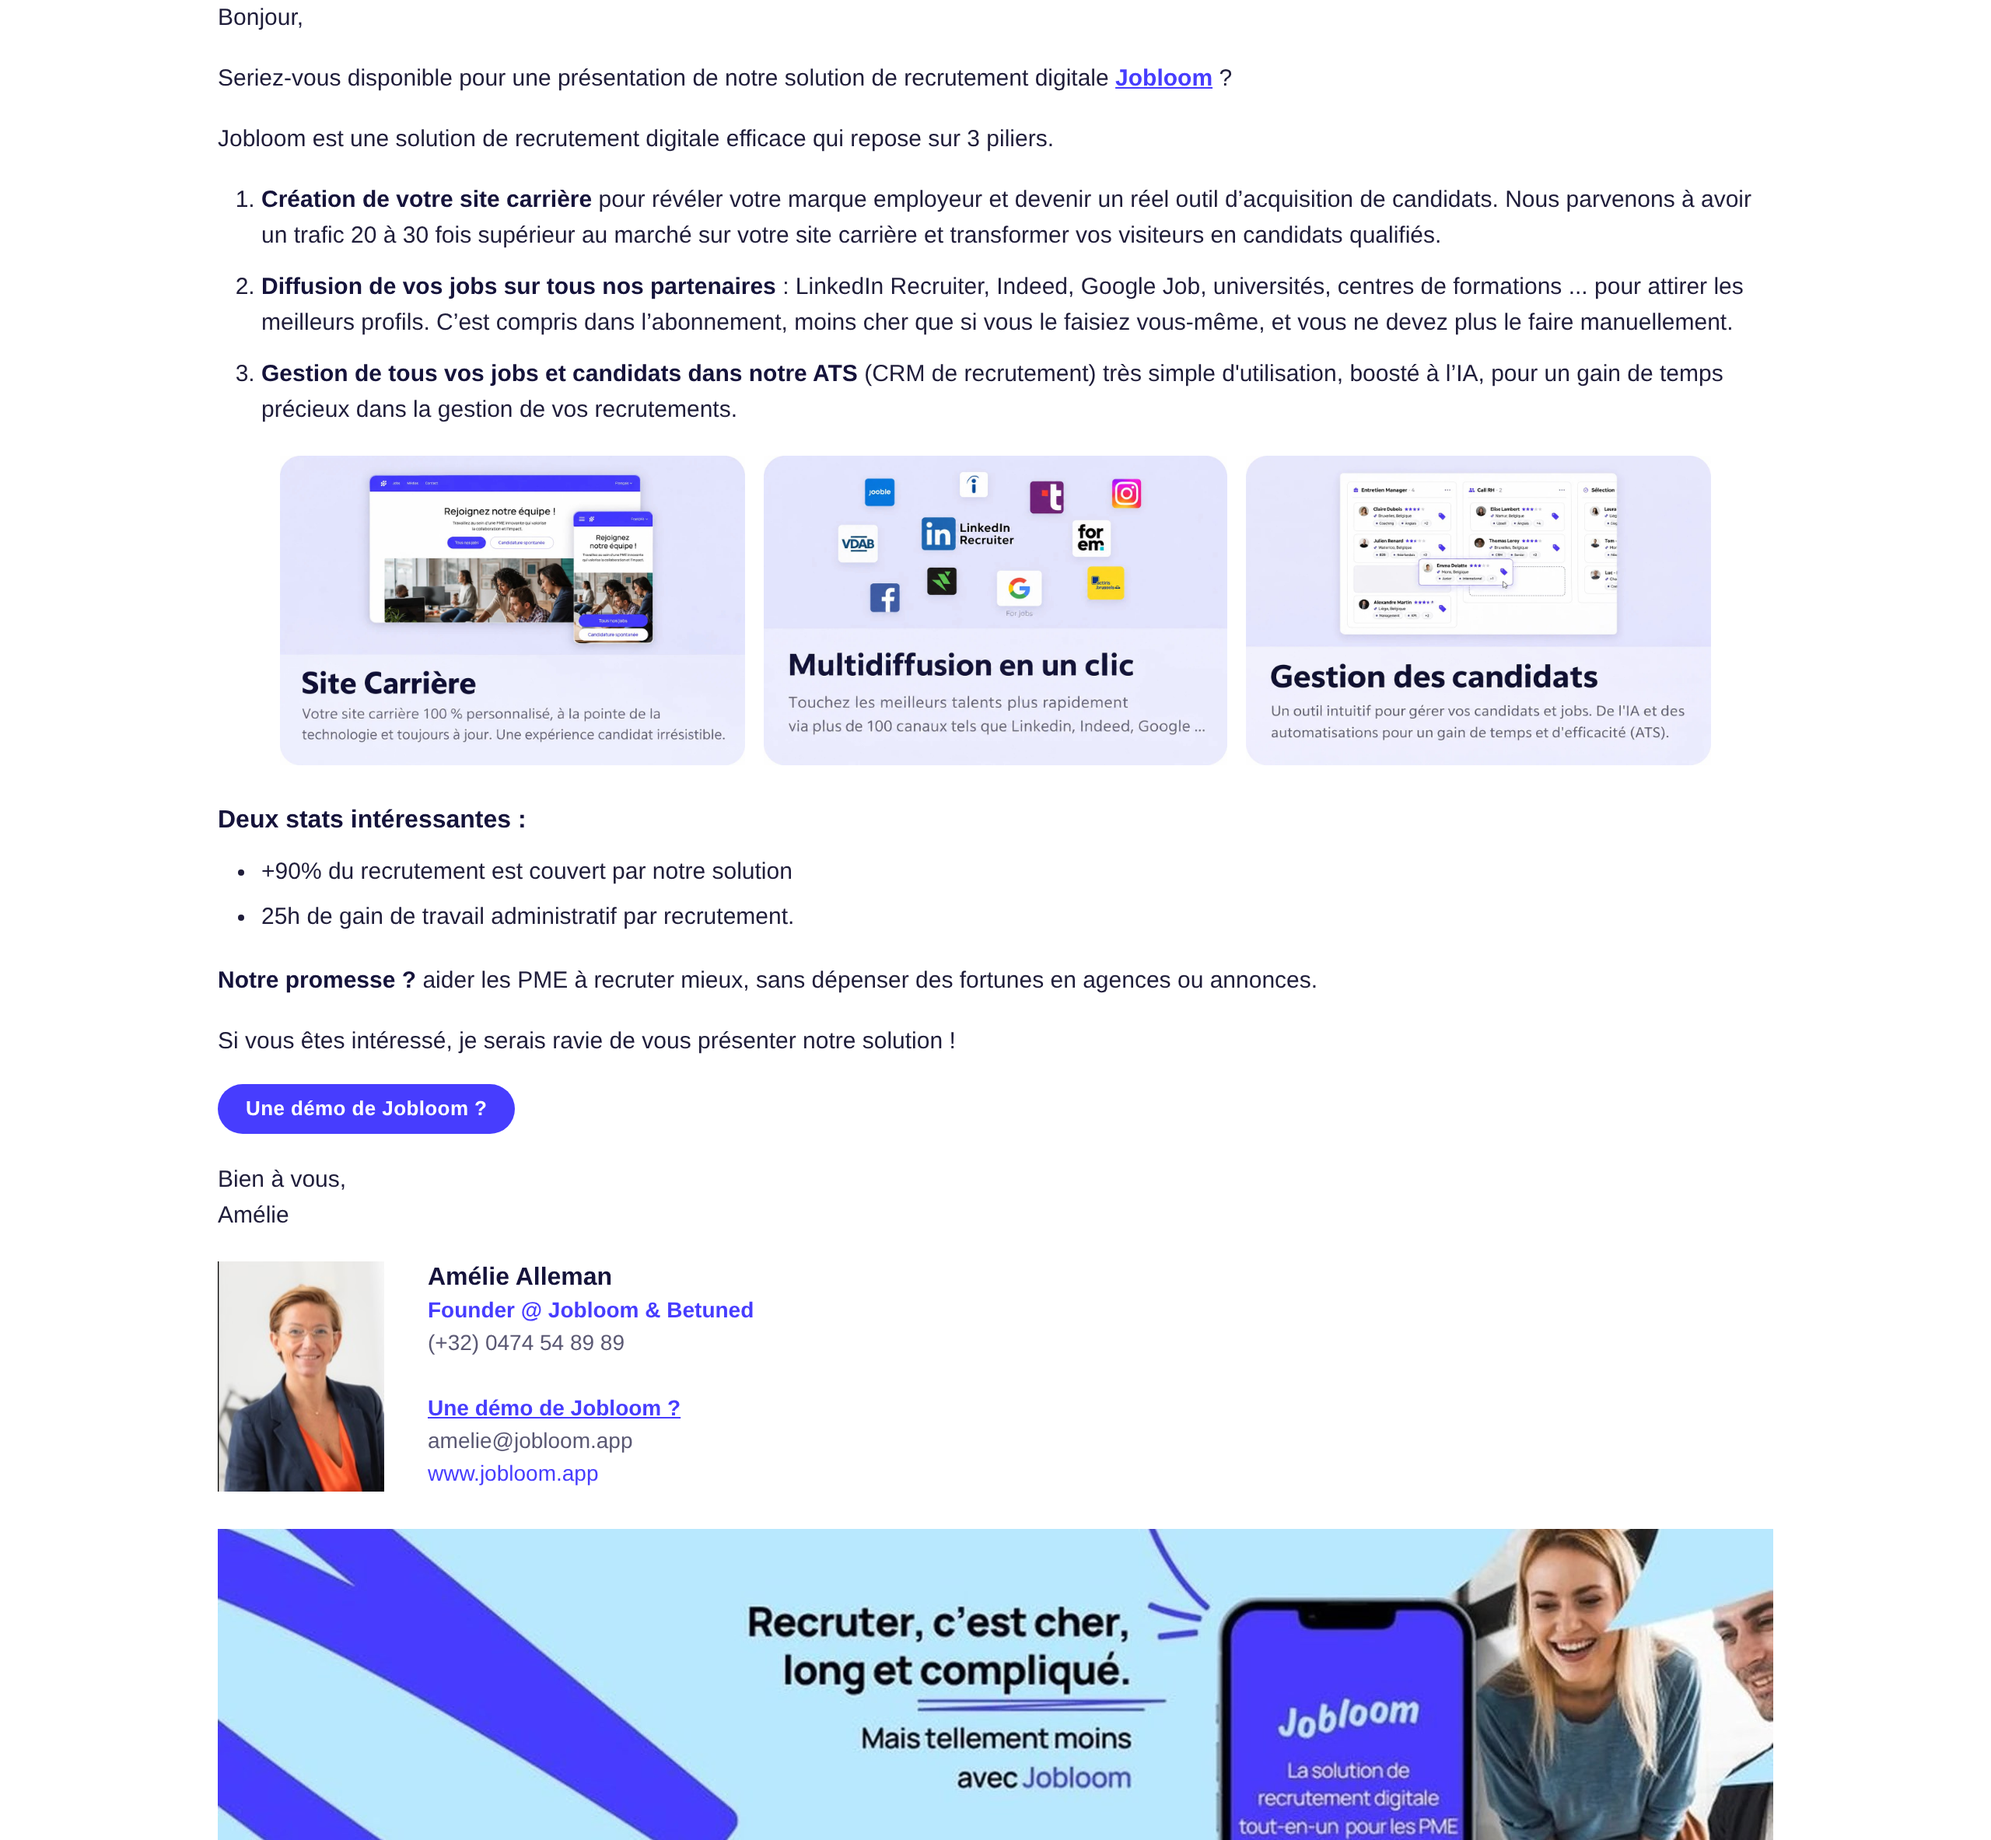
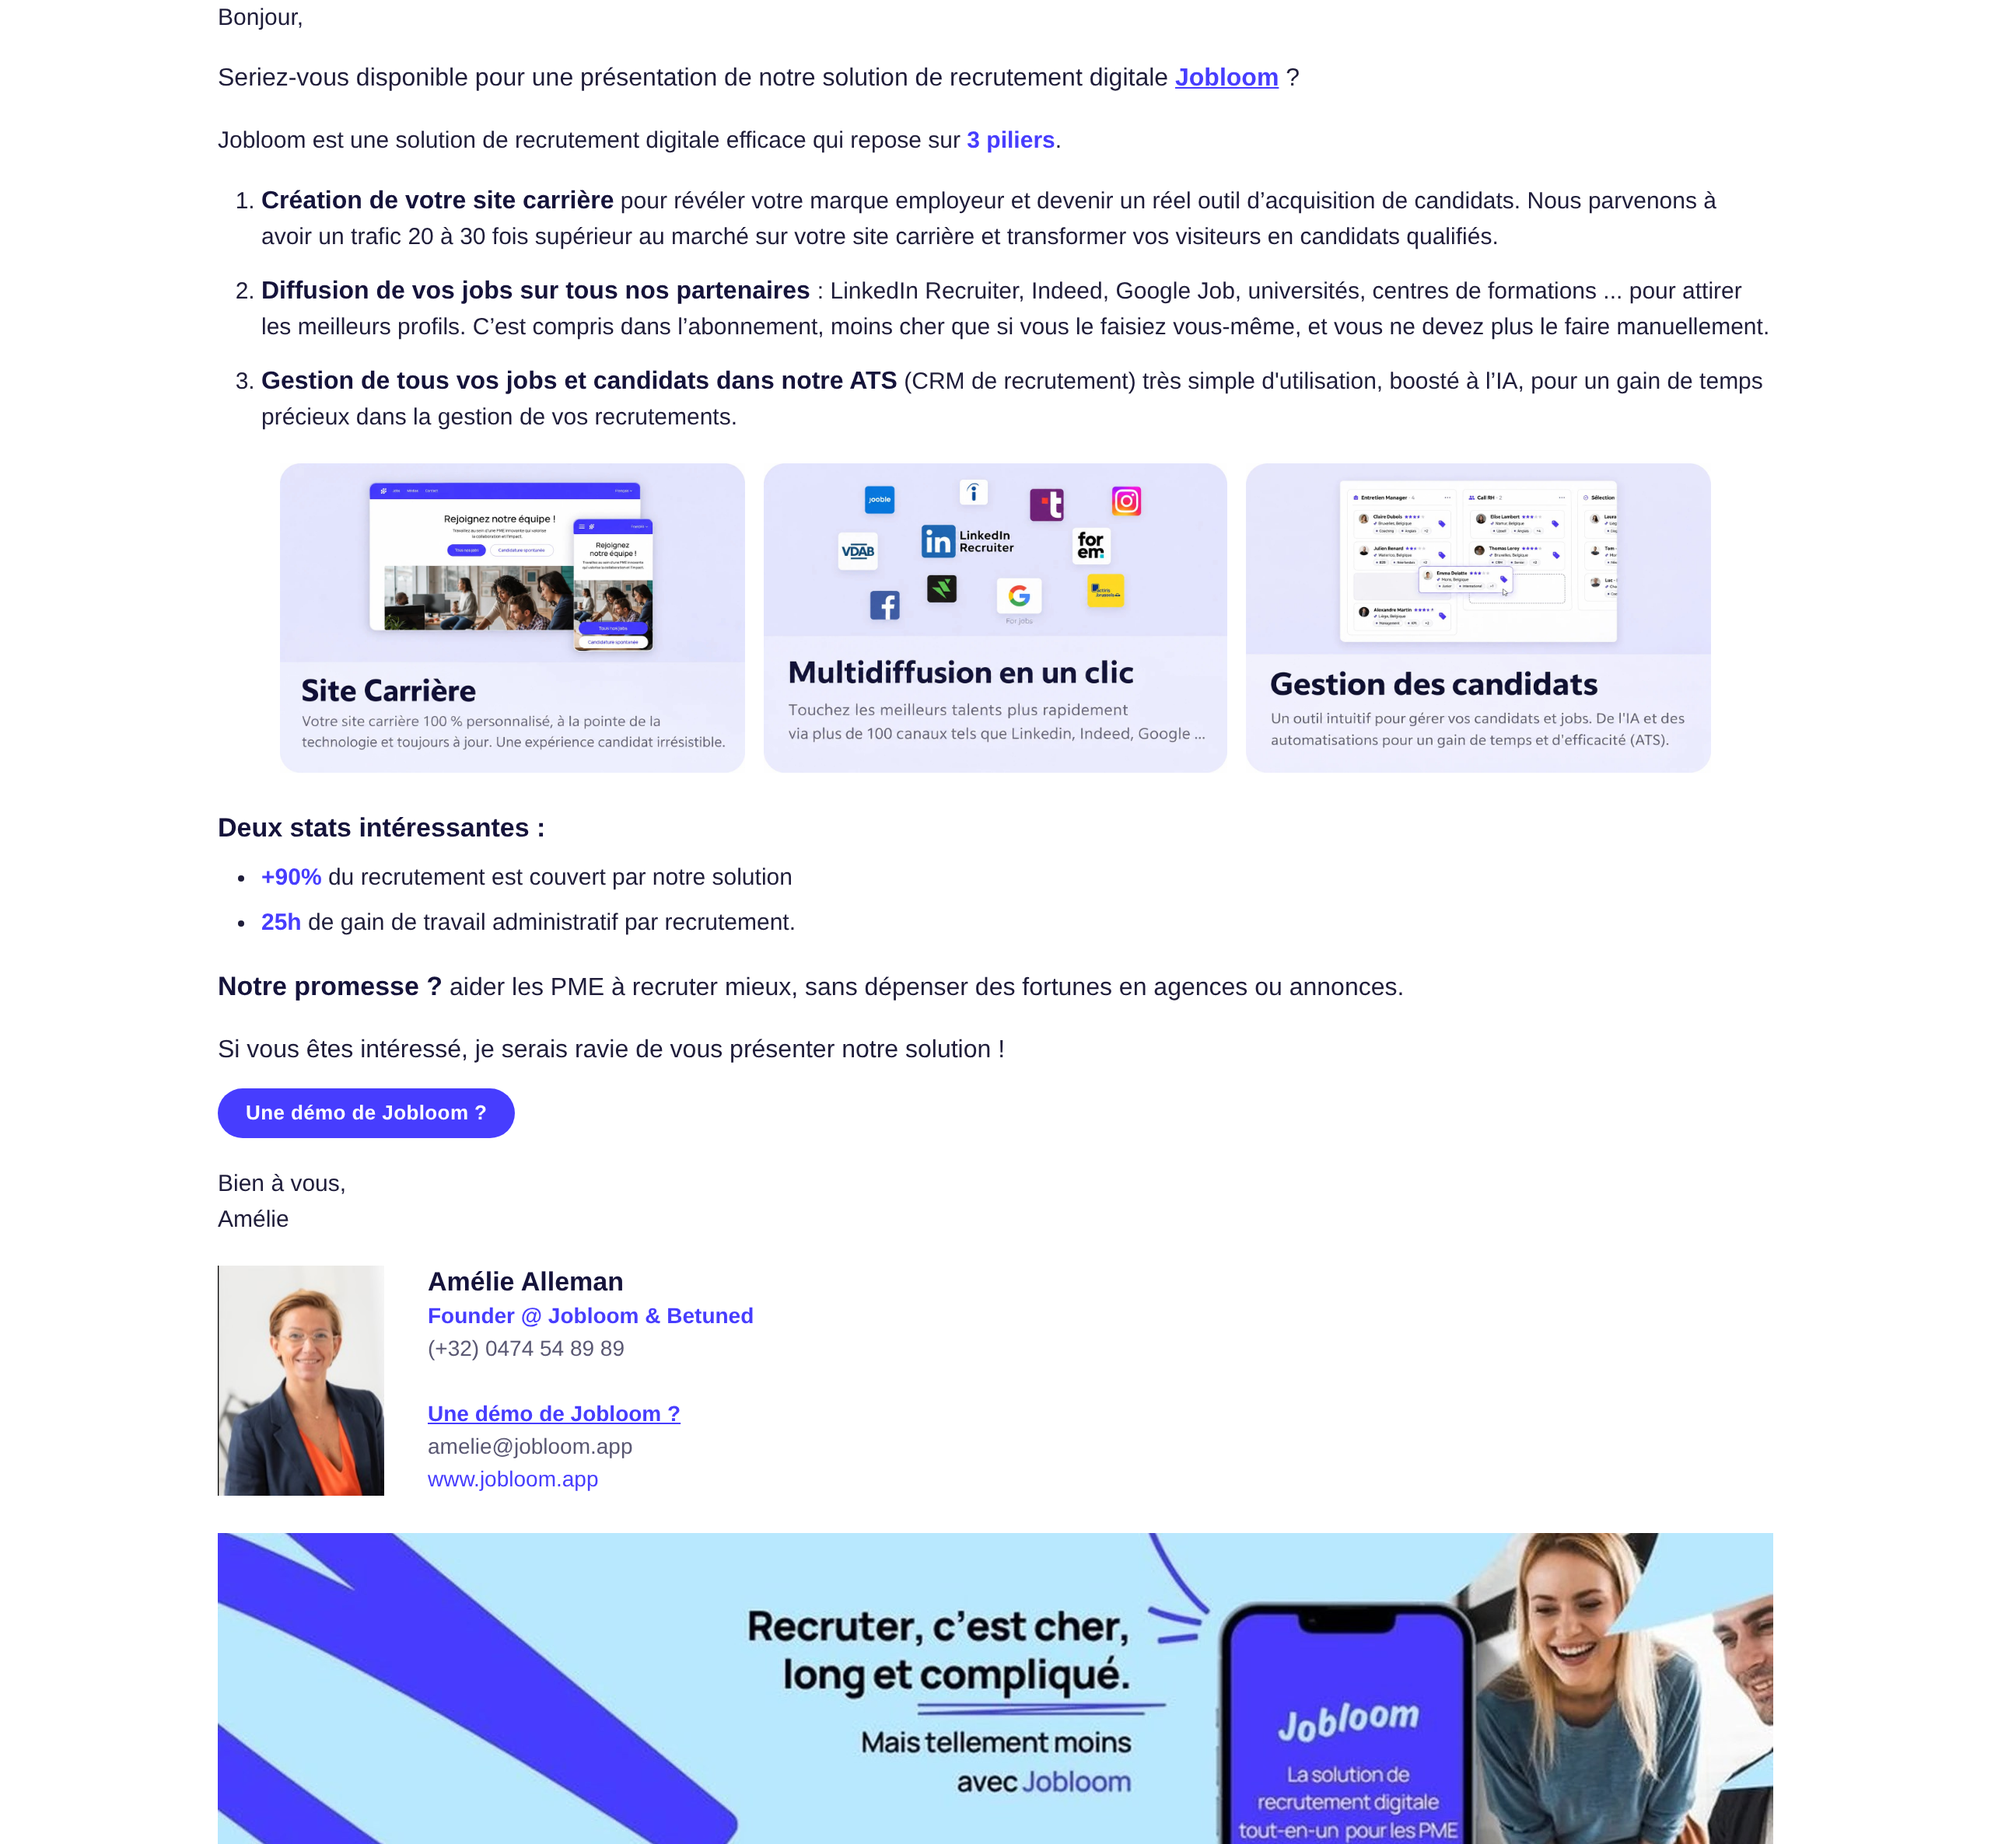
Email Amélie : hiérarchie des titres renforcée
Claude-Session: https://claude.ai/code/session_01XTeiUwKp5X2MxE8FSKHjU9

diff --git a/email-livrable/email_1st_Amelie_final.html b/email-livrable/email_1st_Amelie_final.html
@@ -34,21 +34,21 @@ li{margin-left:0 !important;}</style>
 <div class="txt" style="width:100%;max-width:1000px;margin:0 auto;text-align:left;font-family:Arial,Helvetica,sans-serif;font-size:15px;line-height:23px;mso-line-height-rule:exactly;color:#1F1D3A">
 
 <p style="margin:0 0 16px 0">Bonjour,</p>
-<p style="margin:0 0 16px 0">Seriez-vous disponible pour une présentation de notre solution de recrutement digitale <a href="https://www.jobloom.be/" style="color:#473DFE;font-weight:bold;text-decoration:underline">Jobloom</a>&nbsp;?</p>
-<p style="margin:0 0 16px 0">Jobloom est une solution de recrutement digitale efficace qui repose sur 3 piliers.</p>
+<p style="margin:0 0 16px 0;font-size:16px;line-height:24px">Seriez-vous disponible pour une présentation de notre solution de recrutement digitale <a href="https://www.jobloom.be/" style="color:#473DFE;font-weight:bold;text-decoration:underline">Jobloom</a>&nbsp;?</p>
+<p style="margin:0 0 16px 0">Jobloom est une solution de recrutement digitale efficace qui repose sur <b style="color:#473DFE">3 piliers</b>.</p>
 <ol class="list" style="margin:0 0 18px 0;padding-left:28px">
-<li style="margin:0 0 10px 0"><b style="color:#15133B">Création de votre site carrière</b> pour révéler votre marque employeur et devenir un réel outil d’acquisition de candidats. Nous parvenons à avoir un trafic 20 à 30 fois supérieur au marché sur votre site carrière et transformer vos visiteurs en candidats qualifiés.</li>
-<li style="margin:0 0 10px 0"><b style="color:#15133B">Diffusion de vos jobs sur tous nos partenaires&nbsp;</b>: LinkedIn Recruiter, Indeed, Google Job, universités, centres de formations ... pour attirer les meilleurs profils. C’est compris dans l’abonnement, moins cher que si vous le faisiez vous-même, et vous ne devez plus le faire manuellement.</li>
-<li style="margin:0"><b style="color:#15133B">Gestion de tous vos jobs et candidats dans notre ATS</b> (CRM de recrutement) très simple d'utilisation, boosté à l’IA, pour un gain de temps précieux dans la gestion de vos recrutements.</li>
+<li style="margin:0 0 12px 0"><b style="color:#15133B;font-size:16px">Création de votre site carrière</b> pour révéler votre marque employeur et devenir un réel outil d’acquisition de candidats. Nous parvenons à avoir un trafic 20 à 30 fois supérieur au marché sur votre site carrière et transformer vos visiteurs en candidats qualifiés.</li>
+<li style="margin:0 0 12px 0"><b style="color:#15133B;font-size:16px">Diffusion de vos jobs sur tous nos partenaires&nbsp;</b>: LinkedIn Recruiter, Indeed, Google Job, universités, centres de formations ... pour attirer les meilleurs profils. C’est compris dans l’abonnement, moins cher que si vous le faisiez vous-même, et vous ne devez plus le faire manuellement.</li>
+<li style="margin:0"><b style="color:#15133B;font-size:16px">Gestion de tous vos jobs et candidats dans notre ATS</b> (CRM de recrutement) très simple d'utilisation, boosté à l’IA, pour un gain de temps précieux dans la gestion de vos recrutements.</li>
 </ol>
 <table role="presentation" class="cards" cellpadding="0" cellspacing="0" border="0" width="92%" align="center" style="border-collapse:collapse;width:92%;margin:8px auto 24px auto"><tr><td class="cardtd" width="33%" valign="top" style="width:33.33%;padding:0 8px 0 0"><a href="https://www.jobloom.app/" style="text-decoration:none"><!--[if mso]><img src="https://jobloom-landing-pages-massimoharnisfeger-hues-projects.vercel.app/signature/pilier-1.jpg" width="258" height="172" alt="Site Carrière" style="display:block;width:258px;height:172px;border:0"><![endif]--><!--[if !mso]><!--><img src="https://jobloom-landing-pages-massimoharnisfeger-hues-projects.vercel.app/signature/pilier-1.jpg" width="1536" height="1024" alt="Site Carrière" style="display:block;width:100%;max-width:512px;height:auto;border:0"><!--<![endif]--></a></td><td class="cardtd" width="33%" valign="top" style="width:33.33%;padding:0 4px"><a href="https://www.jobloom.app/" style="text-decoration:none"><!--[if mso]><img src="https://jobloom-landing-pages-massimoharnisfeger-hues-projects.vercel.app/signature/pilier-2.jpg" width="258" height="172" alt="Multidiffusion en un clic" style="display:block;width:258px;height:172px;border:0"><![endif]--><!--[if !mso]><!--><img src="https://jobloom-landing-pages-massimoharnisfeger-hues-projects.vercel.app/signature/pilier-2.jpg" width="1536" height="1024" alt="Multidiffusion en un clic" style="display:block;width:100%;max-width:512px;height:auto;border:0"><!--<![endif]--></a></td><td class="cardtd" width="33%" valign="top" style="width:33.33%;padding:0 0 0 8px"><a href="https://www.jobloom.app/" style="text-decoration:none"><!--[if mso]><img src="https://jobloom-landing-pages-massimoharnisfeger-hues-projects.vercel.app/signature/pilier-3.jpg" width="258" height="172" alt="Gestion des candidats" style="display:block;width:258px;height:172px;border:0"><![endif]--><!--[if !mso]><!--><img src="https://jobloom-landing-pages-massimoharnisfeger-hues-projects.vercel.app/signature/pilier-3.jpg" width="1536" height="1024" alt="Gestion des candidats" style="display:block;width:100%;max-width:512px;height:auto;border:0"><!--<![endif]--></a></td></tr></table>
-<p style="margin:0 0 10px 0;font-size:16px"><b style="color:#15133B">Deux stats intéressantes&nbsp;:</b></p>
+<p style="margin:0 0 8px 0;font-size:17px;line-height:24px"><b style="color:#15133B">Deux stats intéressantes&nbsp;:</b></p>
 <ul class="list" style="margin:0 0 18px 0;padding-left:28px">
-<li style="margin:0 0 6px 0">+90% du recrutement est couvert par notre solution</li>
-<li style="margin:0">25h de gain de travail administratif par recrutement.</li>
+<li style="margin:0 0 6px 0"><b style="color:#473DFE">+90%</b> du recrutement est couvert par notre solution</li>
+<li style="margin:0"><b style="color:#473DFE">25h</b> de gain de travail administratif par recrutement.</li>
 </ul>
-<p style="margin:0 0 16px 0"><b style="color:#15133B">Notre promesse&nbsp;?</b> aider les PME à recruter mieux, sans dépenser des fortunes en agences ou annonces.</p>
-<p style="margin:0 0 16px 0">Si vous êtes intéressé, je serais ravie de vous présenter notre solution&nbsp;!</p>
+<p style="margin:0 0 16px 0;font-size:16px;line-height:24px"><b style="color:#15133B;font-size:17px">Notre promesse&nbsp;?</b> aider les PME à recruter mieux, sans dépenser des fortunes en agences ou annonces.</p>
+<p style="margin:0 0 12px 0;font-size:16px;line-height:24px">Si vous êtes intéressé, je serais ravie de vous présenter notre solution&nbsp;!</p>
 <!--[if mso]>
 <table role="presentation" cellpadding="0" cellspacing="0" border="0"><tr><td style="padding:0 0 18px 0">
 <v:roundrect xmlns:v="urn:schemas-microsoft-com:vml" xmlns:w="urn:schemas-microsoft-com:office:word" href="https://calendly.com/amelie-betuned" style="height:32px;v-text-anchor:middle;width:180px" arcsize="50%" stroke="f" fillcolor="#473DFE"><w:anchorlock/><center style="color:#FFFFFF;font-family:Arial,Helvetica,sans-serif;font-size:13px;font-weight:bold">Une démo de Jobloom ?</center></v:roundrect>
@@ -65,7 +65,7 @@ li{margin-left:0 !important;}</style>
 <tr>
 <td class="sig-photo" valign="top" width="121" style="width:121px;padding:0 14px 0 0"><img src="https://jobloom-landing-pages-massimoharnisfeger-hues-projects.vercel.app/signature/amelie-alleman.jpg" width="107" height="148" alt="Amélie Alleman" class="sig-img" style="display:block;width:107px;height:148px;border:0"></td>
 <td valign="top" style="padding:0">
-<b style="font-size:16px;color:#15133B">Amélie Alleman</b><br>
+<b style="font-size:17px;color:#15133B">Amélie Alleman</b><br>
 <span style="color:#473DFE;font-weight:bold">Founder @ Jobloom &amp; Betuned</span><br>
 <span style="color:#5A5873">(+32) 0474 54 89 89</span><br><br>
 <a href="https://calendly.com/amelie-betuned" style="color:#473DFE;font-weight:bold;text-decoration:underline">Une démo de Jobloom ?</a><br>
